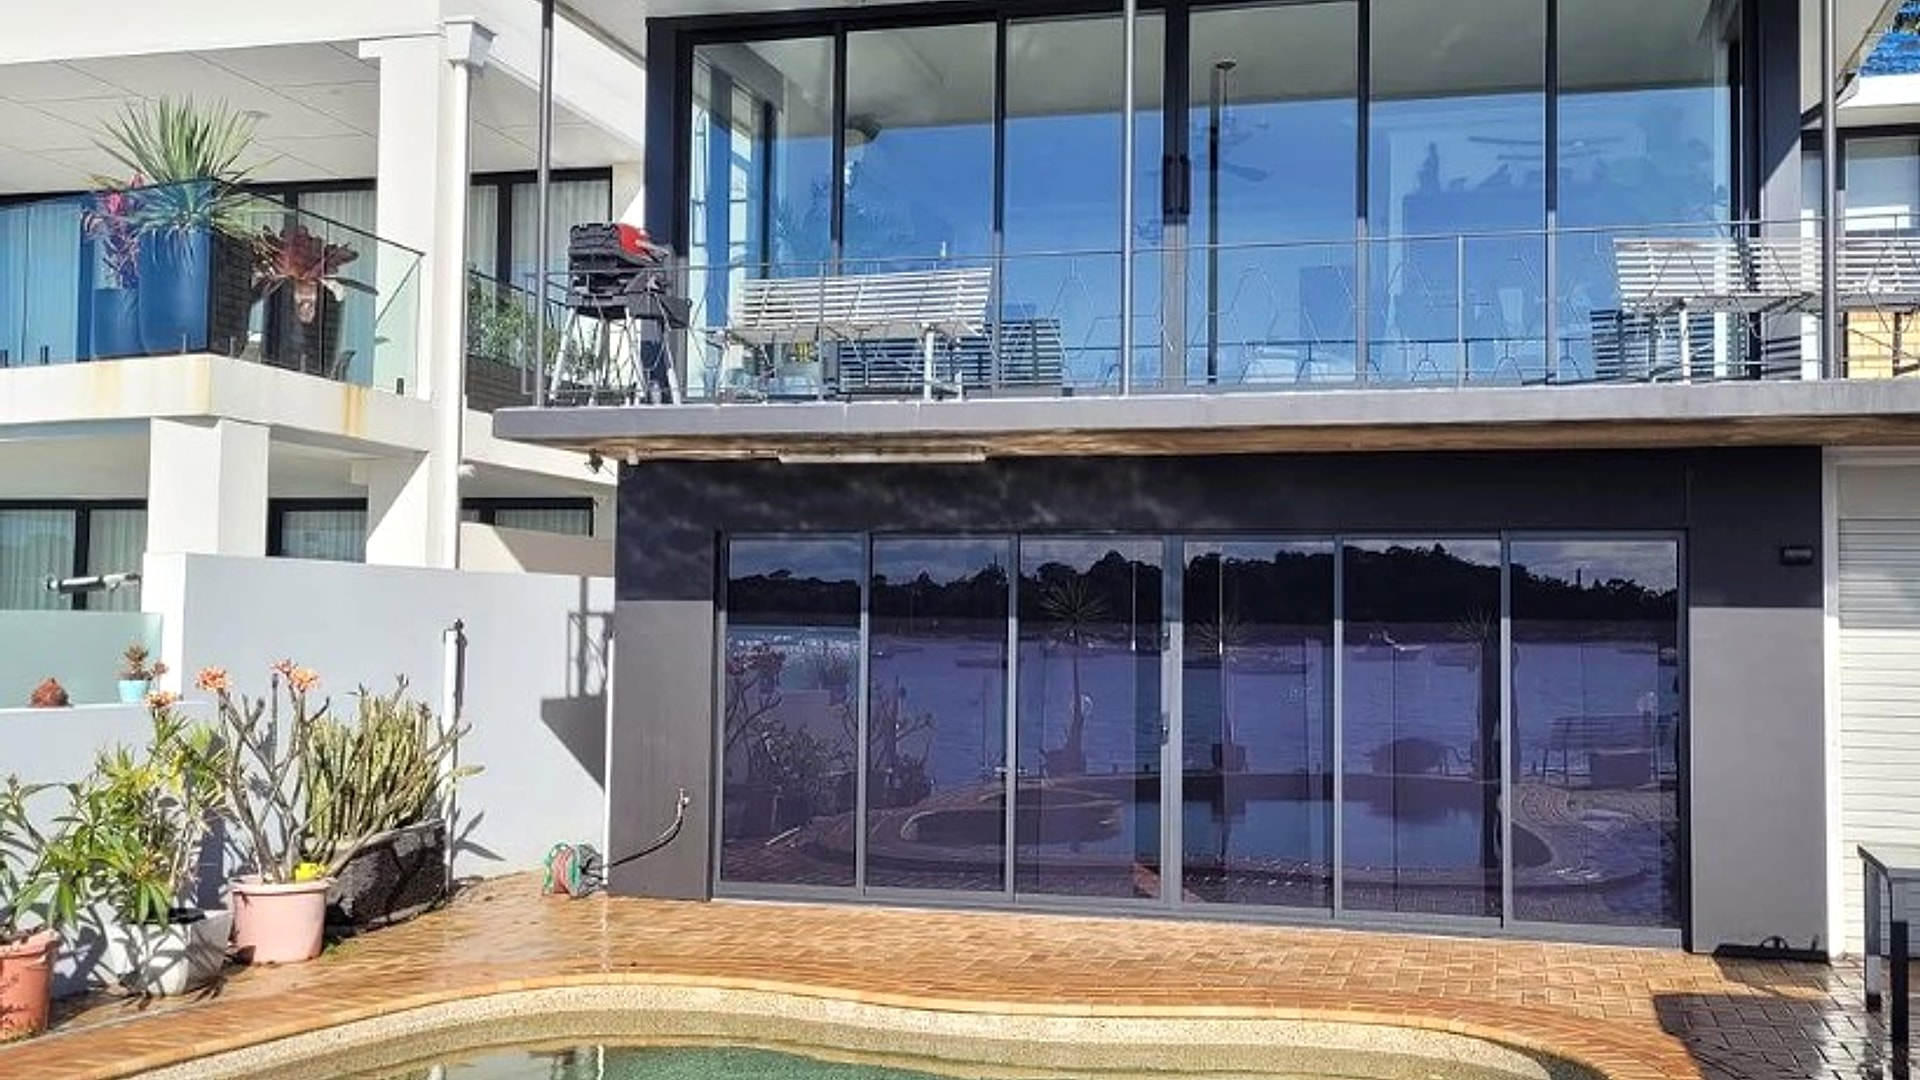
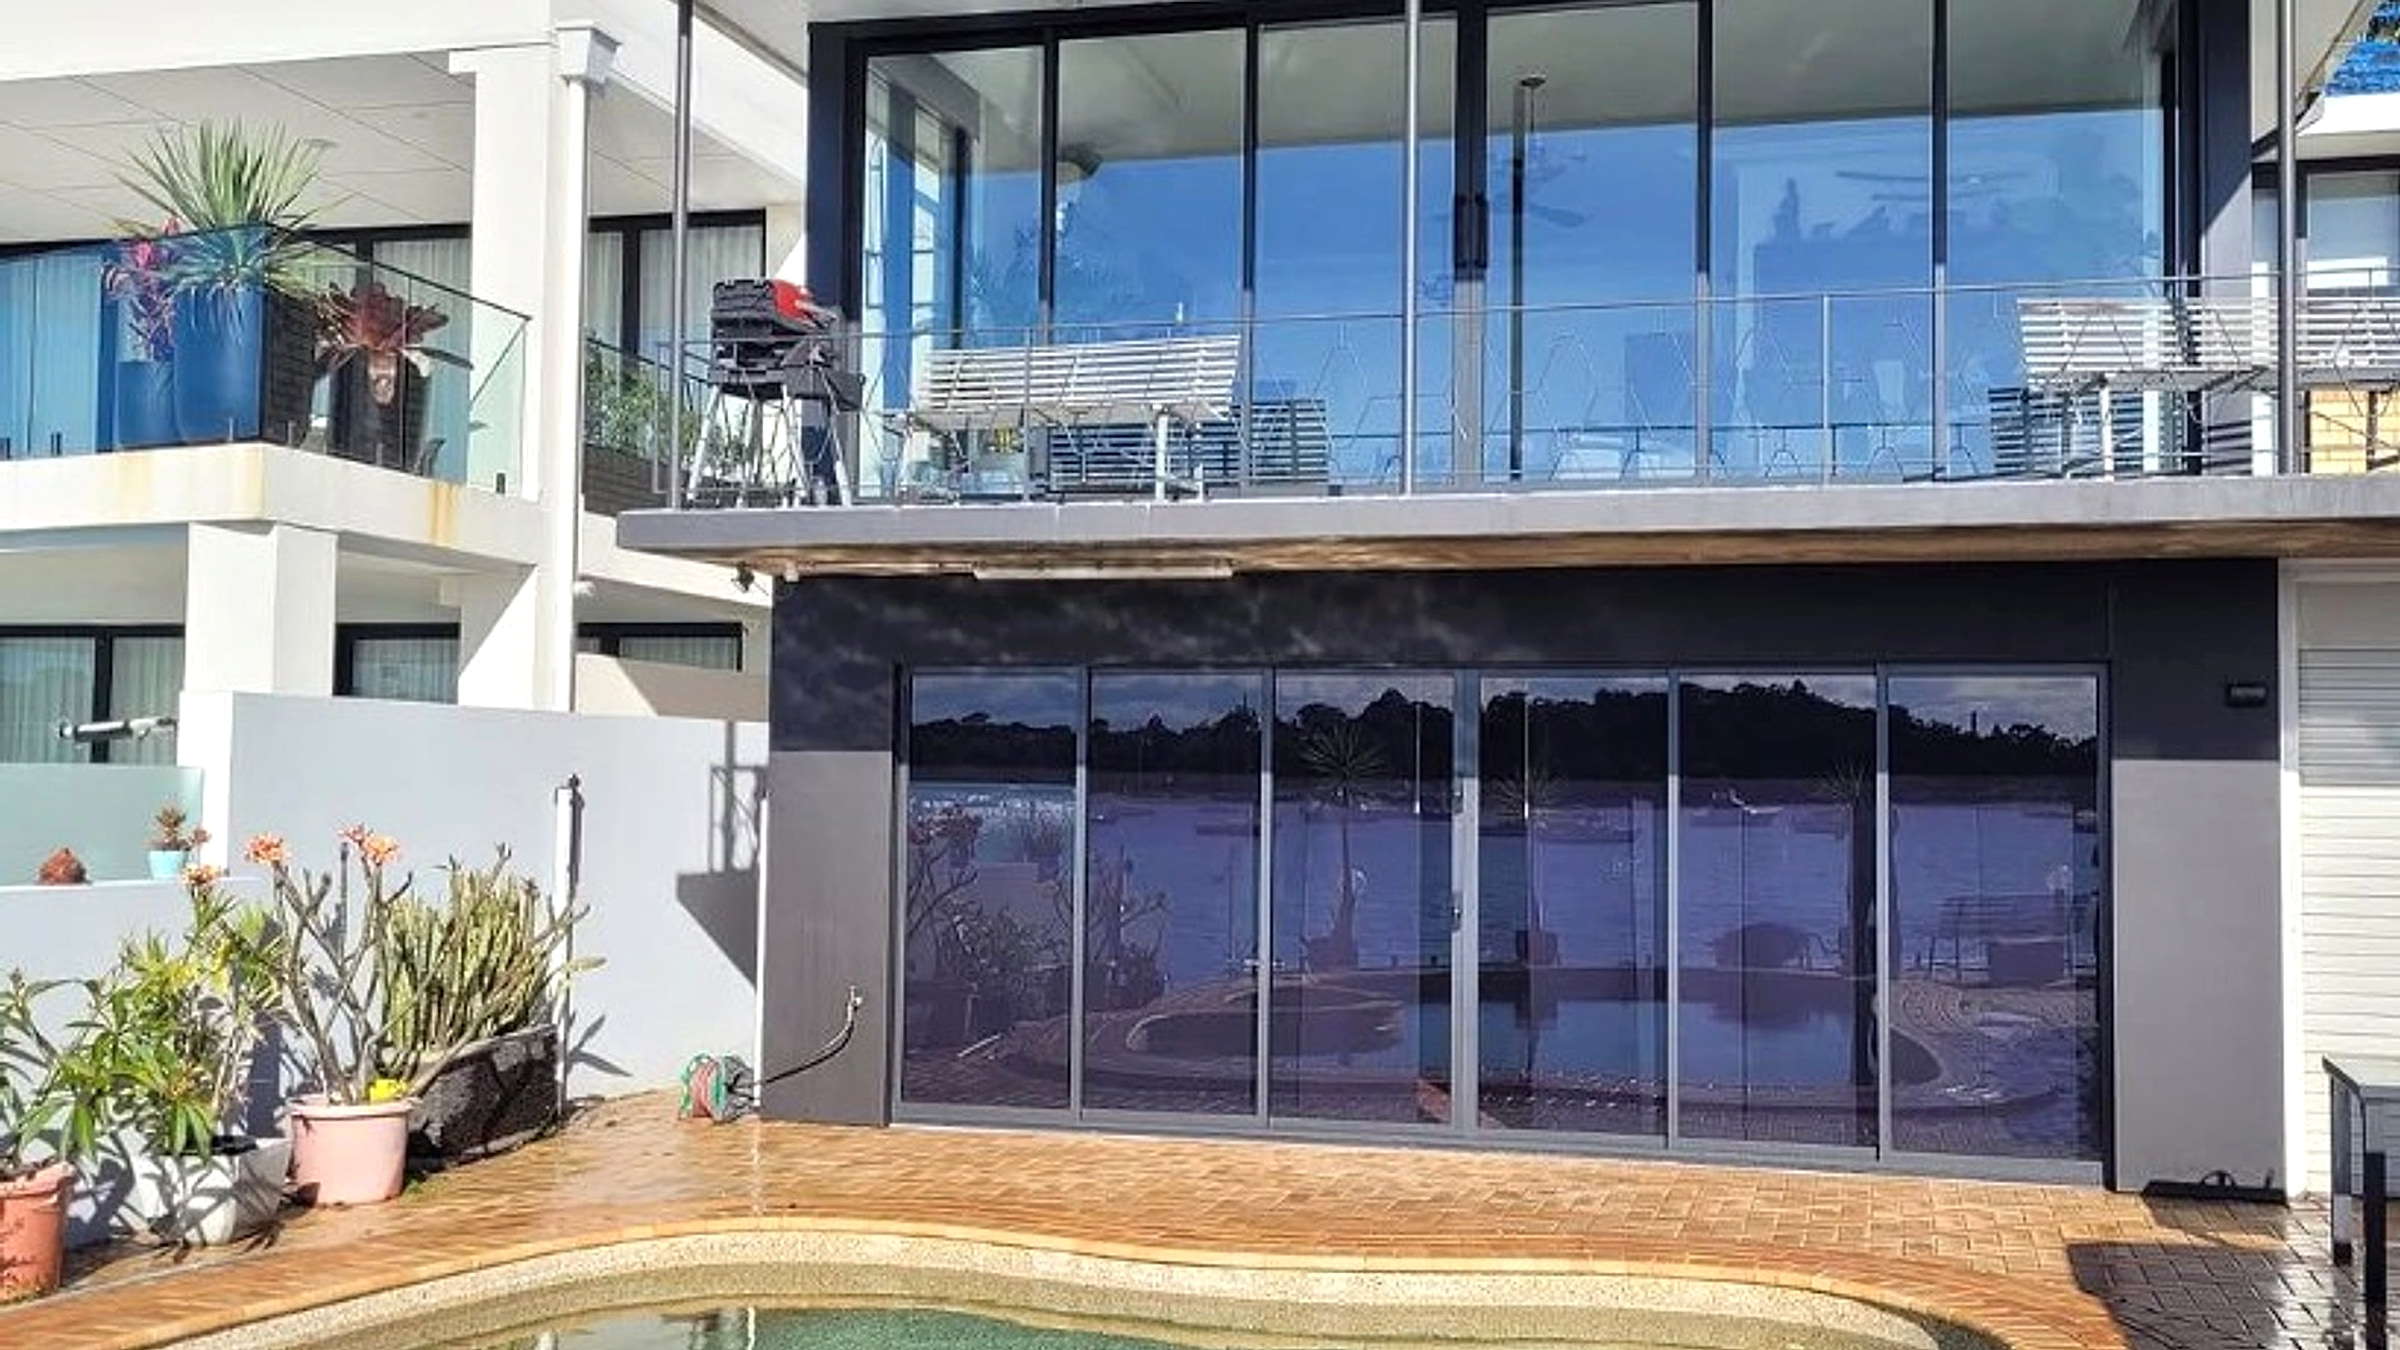
Improve hero image clarity, UI polish, and add Playwright E2E tests.
Sharpen hero assets with lighter desktop overlays, refine services and gallery UI, and cover homepage and gallery flows with stable Playwright tests.

diff --git a/app/globals.css b/app/globals.css
@@ -471,6 +471,31 @@ body {
     linear-gradient(180deg, rgba(8, 8, 10, 0.4) 0%, transparent 38%, rgba(8, 8, 10, 0.68) 100%);
 }
 
+@media (min-width: 1024px) {
+  .hero-photo {
+    transform: translateZ(0);
+    backface-visibility: hidden;
+  }
+
+  .hero-visual-overlay--desktop {
+    background:
+      linear-gradient(
+        95deg,
+        rgba(8, 8, 10, 0.82) 0%,
+        rgba(8, 8, 10, 0.42) 26%,
+        rgba(8, 8, 10, 0.08) 52%,
+        transparent 68%
+      ),
+      linear-gradient(180deg, rgba(8, 8, 10, 0.22) 0%, transparent 42%, rgba(8, 8, 10, 0.5) 100%);
+  }
+
+  .hero-visual-vignette--desktop {
+    background:
+      radial-gradient(ellipse 110% 70% at 50% 100%, rgba(8, 8, 10, 0.32), transparent 58%),
+      linear-gradient(180deg, transparent 0%, transparent 55%, rgba(8, 8, 10, 0.22) 100%);
+  }
+}
+
 .hero-visual-gradient {
   background:
     linear-gradient(180deg, rgba(10, 10, 10, 0.92) 0%, rgba(10, 10, 10, 0.55) 42%, rgba(10, 10, 10, 0.35) 100%),
@@ -537,33 +562,53 @@ body {
 .service-card {
   position: relative;
   display: flex;
-  min-height: 11.5rem;
+  min-height: 12rem;
   flex-direction: column;
   overflow: hidden;
-  border: 1px solid rgba(255, 255, 255, 0.1);
-  border-radius: 0.5rem;
-  background: rgba(10, 10, 10, 0.45);
-  padding: 1.25rem;
-  backdrop-filter: blur(8px);
+  border: 1px solid rgba(255, 255, 255, 0.12);
+  border-radius: 0.75rem;
+  background: linear-gradient(165deg, rgba(255, 255, 255, 0.06) 0%, rgba(10, 10, 10, 0.55) 100%);
+  padding: 1.35rem;
+  backdrop-filter: blur(10px);
+  box-shadow: inset 0 1px 0 rgba(255, 255, 255, 0.06);
   transition:
-    transform 0.25s ease,
-    border-color 0.25s ease,
-    background-color 0.25s ease,
-    box-shadow 0.25s ease;
+    transform 0.28s cubic-bezier(0.22, 1, 0.36, 1),
+    border-color 0.28s ease,
+    background-color 0.28s ease,
+    box-shadow 0.28s ease;
 }
 
 @media (min-width: 1024px) {
   .service-card {
-    min-height: 15.5rem;
-    padding: 1.5rem;
+    min-height: 16rem;
+    padding: 1.65rem;
   }
 }
 
 .service-card:hover {
-  transform: translateY(-4px);
-  border-color: rgba(219, 32, 34, 0.35);
-  background: rgba(255, 255, 255, 0.04);
-  box-shadow: 0 18px 40px rgba(0, 0, 0, 0.28);
+  transform: translateY(-5px);
+  border-color: rgba(219, 32, 34, 0.45);
+  background: linear-gradient(165deg, rgba(255, 255, 255, 0.09) 0%, rgba(10, 10, 10, 0.62) 100%);
+  box-shadow:
+    0 22px 44px rgba(0, 0, 0, 0.32),
+    inset 0 1px 0 rgba(255, 255, 255, 0.1);
+}
+
+.service-card-icon {
+  display: inline-flex;
+  align-items: center;
+  justify-content: center;
+  width: 2.75rem;
+  height: 2.75rem;
+  border-radius: 0.65rem;
+  border: 1px solid rgba(219, 32, 34, 0.25);
+  background: rgba(219, 32, 34, 0.08);
+  transition: background-color 0.28s ease, border-color 0.28s ease;
+}
+
+.service-card:hover .service-card-icon {
+  border-color: rgba(219, 32, 34, 0.45);
+  background: rgba(219, 32, 34, 0.14);
 }
 
 .service-card-accent {

diff --git a/tests/pages/site-pages.ts b/tests/pages/site-pages.ts
@@ -1,0 +1,49 @@
+import { Page, Locator } from "@playwright/test";
+
+async function preparePage(page: Page) {
+  await page.addInitScript(() => {
+    sessionStorage.setItem("ek-loader-seen", "1");
+  });
+}
+
+export class HomePage {
+  readonly page: Page;
+  readonly hero: Locator;
+  readonly servicesSection: Locator;
+  readonly gallerySection: Locator;
+  readonly contactSection: Locator;
+  readonly getQuoteButton: Locator;
+
+  constructor(page: Page) {
+    this.page = page;
+    this.hero = page.locator("#home");
+    this.servicesSection = page.locator("#services");
+    this.gallerySection = page.locator("#gallery");
+    this.contactSection = page.locator("#contact");
+    this.getQuoteButton = page.getByRole("link", { name: /get a quote/i }).first();
+  }
+
+  async goto() {
+    await preparePage(this.page);
+    await this.page.goto("/", { waitUntil: "domcontentloaded" });
+    await this.hero.waitFor({ state: "visible" });
+  }
+}
+
+export class GalleryPage {
+  readonly page: Page;
+  readonly heading: Locator;
+  readonly filterGroup: Locator;
+
+  constructor(page: Page) {
+    this.page = page;
+    this.heading = page.getByRole("heading", { name: /project gallery/i });
+    this.filterGroup = page.getByRole("group", { name: /filter projects by category/i });
+  }
+
+  async goto() {
+    await preparePage(this.page);
+    await this.page.goto("/gallery", { waitUntil: "domcontentloaded" });
+    await this.heading.waitFor({ state: "visible" });
+  }
+}

diff --git a/tests/e2e/homepage.spec.ts b/tests/e2e/homepage.spec.ts
@@ -1,0 +1,44 @@
+import { test, expect } from "@playwright/test";
+import { HomePage } from "../pages/site-pages";
+
+test.describe("Homepage", () => {
+  let home: HomePage;
+
+  test.beforeEach(async ({ page }) => {
+    home = new HomePage(page);
+    await home.goto();
+  });
+
+  test("renders hero with headline and primary CTAs", async ({ page }) => {
+    await expect(home.hero).toBeVisible();
+    await expect(page.getByRole("heading", { level: 1 }).first()).toBeVisible();
+    await expect(home.getQuoteButton).toBeVisible();
+    await expect(page.getByRole("link", { name: /view our work/i }).first()).toBeVisible();
+  });
+
+  test("loads hero background image", async ({ page }) => {
+    const heroImg = page.locator("#home img:visible");
+    await expect(heroImg).toHaveCount(1);
+    const src = await heroImg.getAttribute("src");
+    expect(src).toMatch(/hero-home/);
+  });
+
+  test("navigates to contact from hero CTA", async ({ page }) => {
+    await home.getQuoteButton.click();
+    await expect(home.contactSection).toBeInViewport();
+  });
+
+  test("shows services section without desktop background bleed", async ({ page, viewport }) => {
+    test.skip(!viewport || viewport.width < 1024, "Desktop-only check");
+    await home.servicesSection.scrollIntoViewIfNeeded();
+    await expect(home.servicesSection.getByRole("heading", { name: "Services" })).toBeVisible();
+    await expect(home.servicesSection.locator('img[src*="hero-building"]')).toBeHidden();
+  });
+
+  test("gallery section shows project cards or empty state", async ({ page }) => {
+    await home.gallerySection.scrollIntoViewIfNeeded();
+    await expect
+      .poll(async () => home.gallerySection.locator("article").count())
+      .toBeGreaterThan(0);
+  });
+});

diff --git a/tests/e2e/gallery.spec.ts b/tests/e2e/gallery.spec.ts
@@ -1,0 +1,41 @@
+import { test, expect } from "@playwright/test";
+import { GalleryPage } from "../pages/site-pages";
+
+test.describe("Gallery page", () => {
+  let gallery: GalleryPage;
+
+  test.beforeEach(async ({ page }) => {
+    gallery = new GalleryPage(page);
+    await gallery.goto();
+  });
+
+  test("renders gallery heading and filters", async ({ page }) => {
+    await expect(gallery.heading).toBeVisible();
+    await expect(gallery.filterGroup).toBeVisible();
+    await expect(gallery.filterGroup.getByRole("button", { name: /^All/i })).toBeVisible();
+  });
+
+  test("category filter updates URL and results", async ({ page }) => {
+    const filters = gallery.filterGroup.getByRole("button");
+    const count = await filters.count();
+    test.skip(count < 2, "Need at least two categories to test filtering");
+
+    const secondFilter = filters.nth(1);
+    await secondFilter.click();
+
+    await expect(secondFilter).toHaveAttribute("aria-pressed", "true");
+    await expect(page.url()).toContain("category=");
+  });
+
+  test("project card links to detail page", async ({ page }) => {
+    const firstCard = page.locator("#gallery article").first();
+    test.skip((await firstCard.count()) === 0, "No gallery projects available");
+
+    const href = await firstCard.locator("a").first().getAttribute("href");
+    expect(href).toMatch(/^\/gallery\//);
+
+    await firstCard.locator("a").first().click();
+    await expect(page).toHaveURL(/\/gallery\//);
+    await expect(page.getByRole("link", { name: /back to gallery/i })).toBeVisible();
+  });
+});

diff --git a/playwright.config.ts b/playwright.config.ts
@@ -1,0 +1,28 @@
+import { defineConfig, devices } from "@playwright/test";
+
+export default defineConfig({
+  testDir: "./tests/e2e",
+  fullyParallel: true,
+  forbidOnly: !!process.env.CI,
+  retries: process.env.CI ? 2 : 0,
+  workers: 1,
+  timeout: 60000,
+  reporter: [["list"], ["html", { open: "never", outputFolder: "playwright-report" }]],
+  use: {
+    baseURL: process.env.BASE_URL || "http://localhost:3000",
+    trace: "on-first-retry",
+    screenshot: "only-on-failure",
+    actionTimeout: 10000,
+    navigationTimeout: 30000,
+  },
+  projects: [
+    { name: "chromium", use: { ...devices["Desktop Chrome"] } },
+    { name: "mobile-chrome", use: { ...devices["Pixel 5"] } },
+  ],
+  webServer: {
+    command: "npm run start",
+    url: "http://localhost:3000",
+    reuseExistingServer: !process.env.CI,
+    timeout: 120000,
+  },
+});

diff --git a/components/hero/HeroVisual.tsx b/components/hero/HeroVisual.tsx
@@ -17,9 +17,9 @@ export function HeroVisual() {
         fill
         priority
         fetchPriority="high"
-        quality={82}
+        quality={92}
         sizes="100vw"
-        className="object-cover object-[center_52%] lg:hidden"
+        className="hero-photo object-cover object-[center_52%] lg:hidden"
       />
       <Image
         src={HERO_DESKTOP}
@@ -27,14 +27,14 @@ export function HeroVisual() {
         fill
         priority
         fetchPriority="high"
-        quality={82}
+        quality={92}
         sizes="100vw"
-        className={`hidden object-cover object-[58%_center] lg:block ${reduceMotion ? "" : "hero-ken-burns"}`}
+        className={`hero-photo hidden object-cover object-[58%_center] lg:block ${reduceMotion ? "" : "hero-ken-burns"}`}
       />
-      <div className="hero-visual-glow absolute inset-0 opacity-80" aria-hidden />
+      <div className="hero-visual-glow absolute inset-0 lg:opacity-50" aria-hidden />
       <div className="hero-visual-overlay hero-visual-overlay--mobile absolute inset-0 lg:hidden" aria-hidden />
-      <div className="hero-visual-overlay absolute inset-0 hidden lg:block" aria-hidden />
-      <div className="hero-visual-vignette absolute inset-0" aria-hidden />
+      <div className="hero-visual-overlay hero-visual-overlay--desktop absolute inset-0 hidden lg:block" aria-hidden />
+      <div className="hero-visual-vignette hero-visual-vignette--desktop absolute inset-0" aria-hidden />
     </div>
   );
 }

diff --git a/components/sections/Services.tsx b/components/sections/Services.tsx
@@ -129,11 +129,13 @@ export function Services({ services }: { services: CmsService[] }) {
                 >
                   <Link href="#contact" className="service-card group">
                     <span className="service-card-accent" aria-hidden />
-                    <Icon />
-                    <h3 className="mt-4 text-[10px] font-bold leading-snug tracking-[0.08em] text-white uppercase sm:text-xs lg:text-[13px]">
+                    <span className="service-card-icon">
+                      <Icon />
+                    </span>
+                    <h3 className="mt-4 text-[10px] font-bold leading-snug tracking-[0.1em] text-white uppercase sm:text-xs lg:text-[13px]">
                       {service.title}
                     </h3>
-                    <p className="mt-2 flex-1 text-[12px] leading-relaxed text-white/55 sm:text-[13px] lg:text-sm lg:leading-[1.65]">
+                    <p className="mt-2 flex-1 text-[12px] leading-relaxed text-white/60 sm:text-[13px] lg:text-sm lg:leading-[1.65]">
                       {service.description}
                     </p>
                     <span className="mt-4 inline-flex items-center gap-1.5 text-[10px] font-bold tracking-[0.14em] text-white/70 uppercase transition group-hover:text-ek-teal">

diff --git a/components/hero/HeroTrustBar.tsx b/components/hero/HeroTrustBar.tsx
@@ -79,7 +79,11 @@ export function HeroTrustBar({ className = "", variant = "default" }: Props) {
                 <p className="mt-0.5 hidden text-[10px] leading-snug text-white/55 sm:block">
                   {sublabel}
                 </p>
-              ) : null}
+              ) : (
+                <p className="mt-0.5 hidden text-[9px] leading-snug text-white/50 lg:block">
+                  {sublabel}
+                </p>
+              )}
             </div>
           </div>
         ))}

diff --git a/components/gallery/GalleryGrid.tsx b/components/gallery/GalleryGrid.tsx
@@ -157,8 +157,8 @@ export function GalleryGrid({
                   aria-pressed={active}
                   className={`min-h-[36px] rounded-full px-4 py-2 text-[10px] font-semibold tracking-wide uppercase transition focus-visible:outline focus-visible:outline-2 focus-visible:outline-offset-2 focus-visible:outline-ek-teal ${
                     active
-                      ? "bg-ek-teal text-white shadow-sm"
-                      : "border border-ek-navy/10 bg-white text-ek-muted hover:border-ek-teal/30 hover:text-ek-navy"
+                      ? "bg-ek-teal text-white shadow-md ring-2 ring-ek-teal/30 ring-offset-1 ring-offset-white"
+                      : "border border-ek-navy/10 bg-white text-ek-muted hover:border-ek-teal/35 hover:text-ek-navy hover:shadow-sm"
                   }`}
                 >
                   {cat}